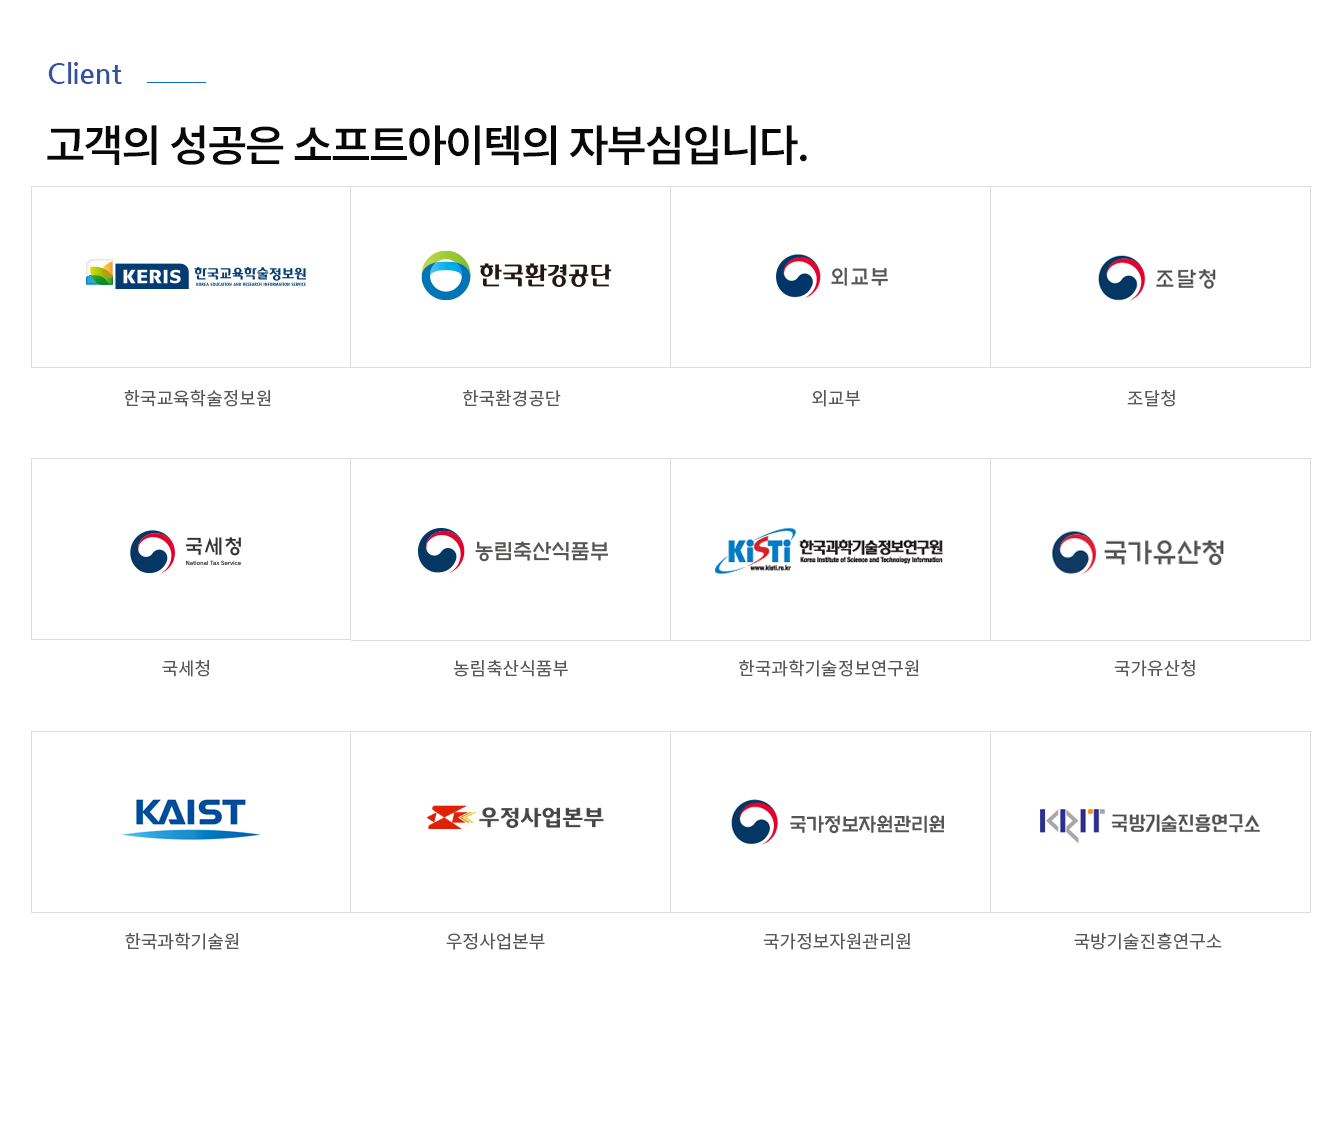
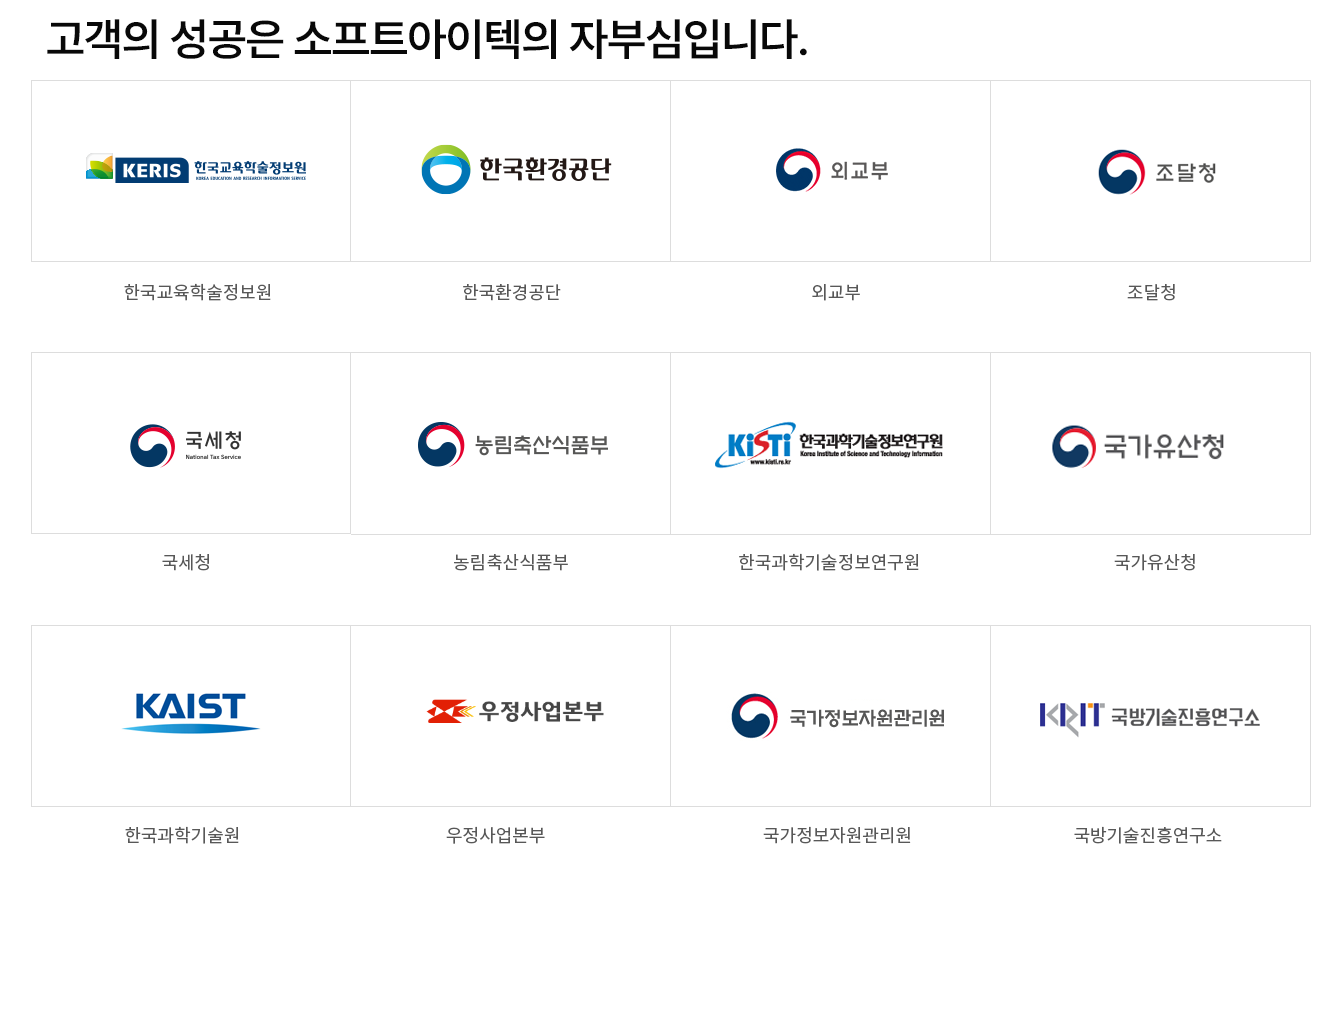
디자인 통일 및 깨짐 수정

diff --git a/src/main/resources/static/css/main.css b/src/main/resources/static/css/main.css
@@ -111,6 +111,9 @@ nav {
 section {
     margin-top: 80px; /* 헤더 높이 + 여백 */
     padding: 20px;
+    max-width: 1200px;
+    margin-left: auto;
+    margin-right: auto;
 }
 
 /* 메인 배너 스타일 */
@@ -295,4 +298,20 @@ nav ul li a {
 
 nav ul li a:hover {
     color: var(--primary-blue);
+}
+
+.text-mid {
+	text-align: center;
+}
+
+section .title h1 {
+    display: inline-block;
+    font-size: 1.5em;
+    color: #333;
+    border-bottom: 2px solid #F0F0F0;
+    margin-bottom: 10px;
+}
+
+h1, h2, h3, h4, h5, h6 {
+    font-weight: bold;
 }
